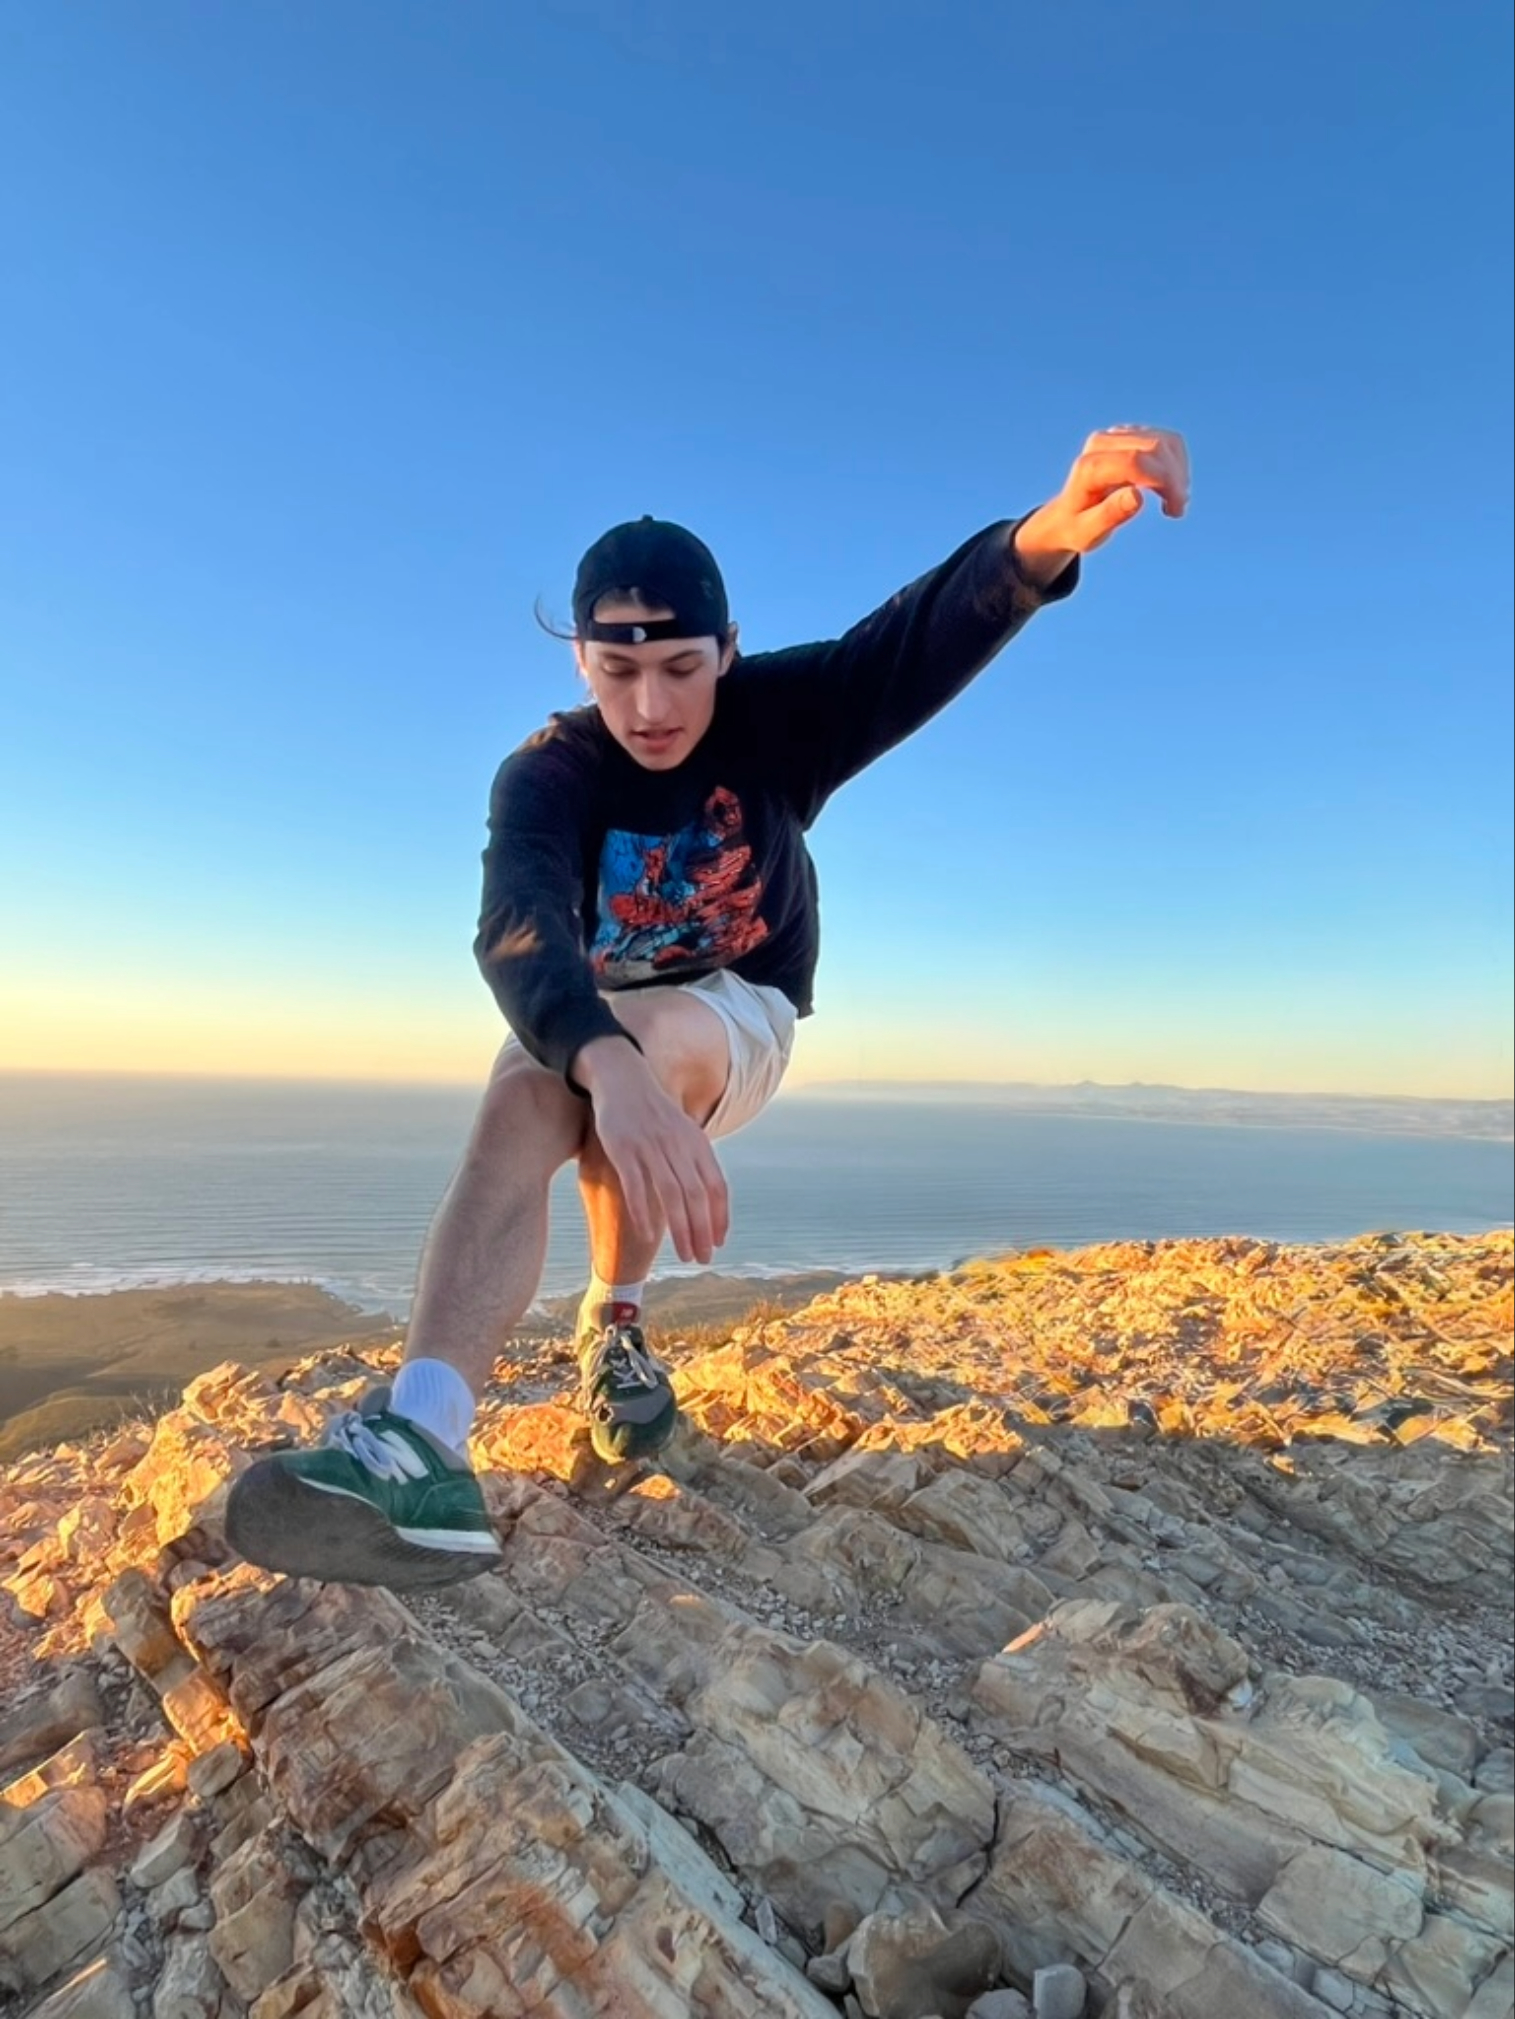
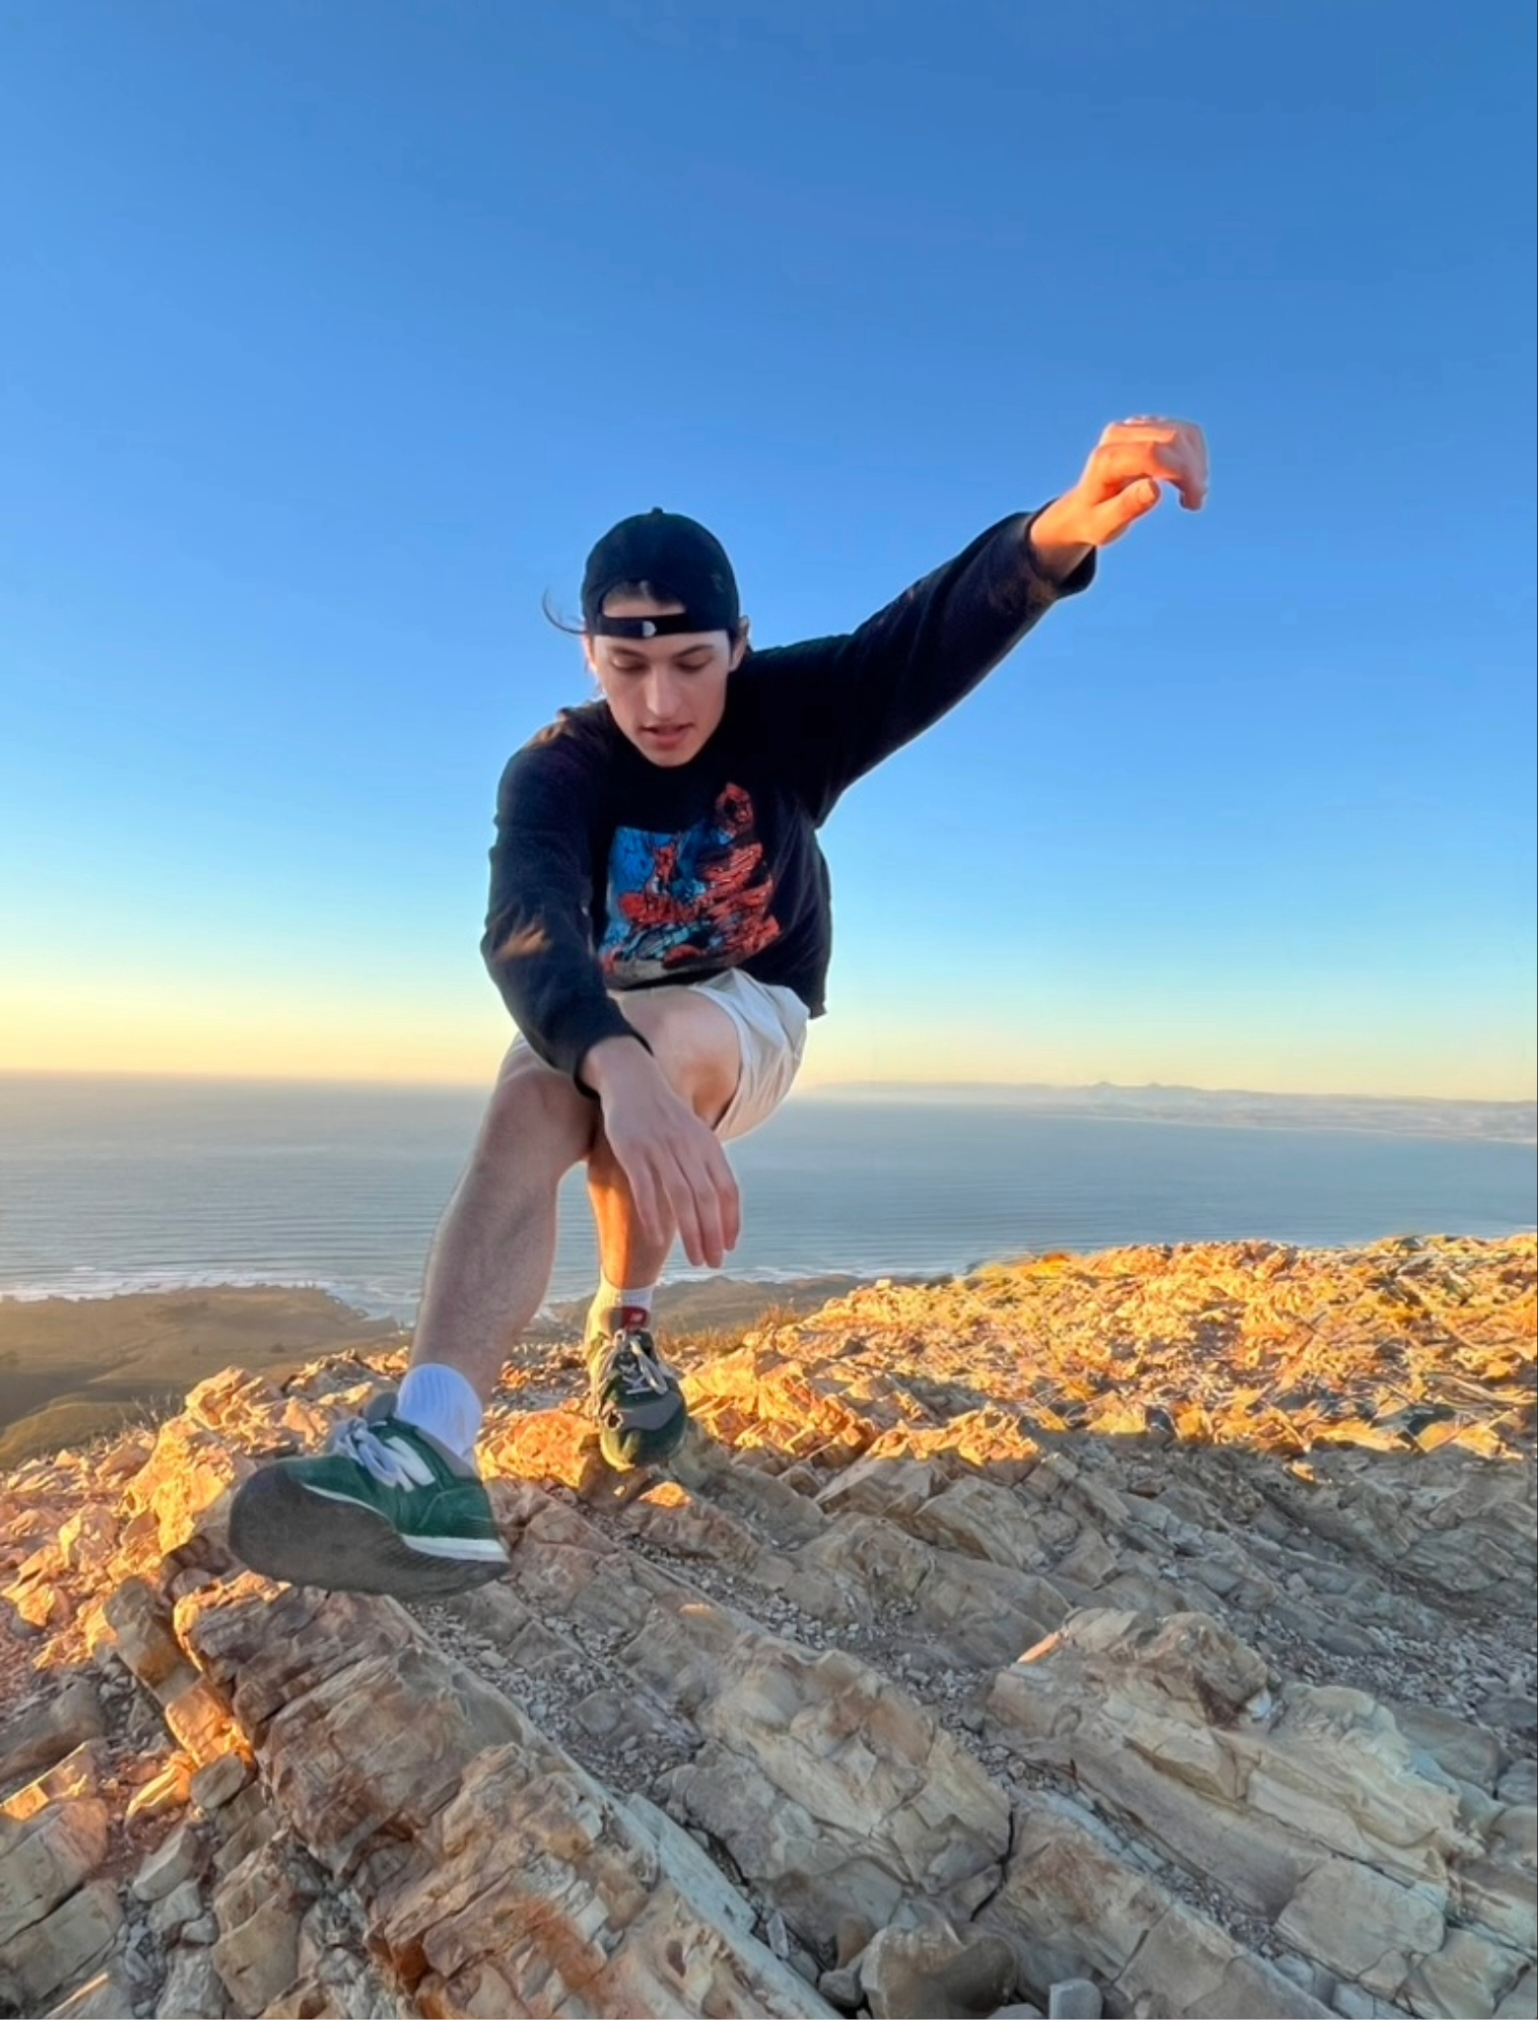
Added Daron, Macey info, fixed Charlie image size.

diff --git a/src/data/officers.ts b/src/data/officers.ts
@@ -17,11 +17,11 @@ const officers: Officer[] = [
     role: "Vice President",
     major: "Business Economics",
     whyJoined:
-      "I like nature so much and have grown to like it even more with the club.",
+      "Nature exploration and friendships 🌴",
     favoriteMemory:
-      "Random outings to yum restaurants and outings to the beach.",
-    instagram: "https://www.instagram.com/daron_kal/",
-    imagePath: "/images/officers/blank_profile.jpg",
+      "Beautiful retreat in the woods of Sequoia",
+    instagram: "",
+    imagePath: "/images/officers/daron.png",
   },
   {
     id: "nathan",
@@ -116,13 +116,13 @@ const officers: Officer[] = [
     id: "macey",
     name: "Macey",
     role: "Event Coordinator",
-    major: "Biology",
+    major: "Biological Sciences",
     whyJoined:
-      "I joined AAC my freshman year to meet new people, go on hikes, and explore the LA/OC area!",
+      "In joining AAC, I wanted to gain more opportunities to get outside, explore, and meet amazing people.",
     favoriteMemory:
-      "Our Spring '25 retreat to Zion National Park.",
-    instagram: "https://www.instagram.com/lakeshoreee/",
-    imagePath: "/images/officers/blank_profile.jpg",
+      "My favorite AAC Memory is climbing rocks and swimming at the beach in San Clemente.",
+    instagram: "https://www.instagram.com/maceyy_k/",
+    imagePath: "/images/officers/macey.jpg",
   },
   {
     id: "liam",
